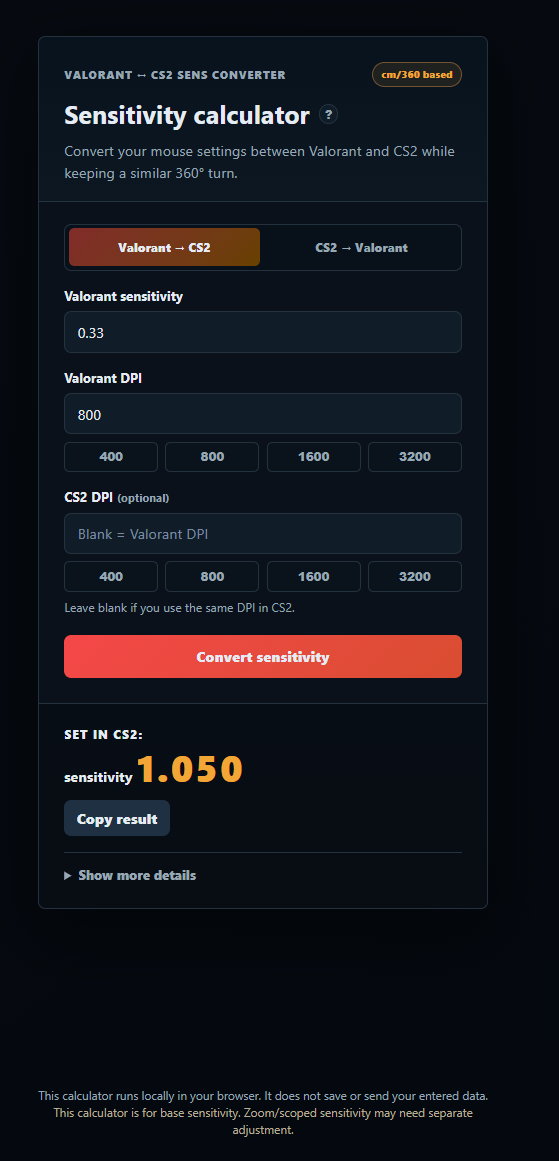
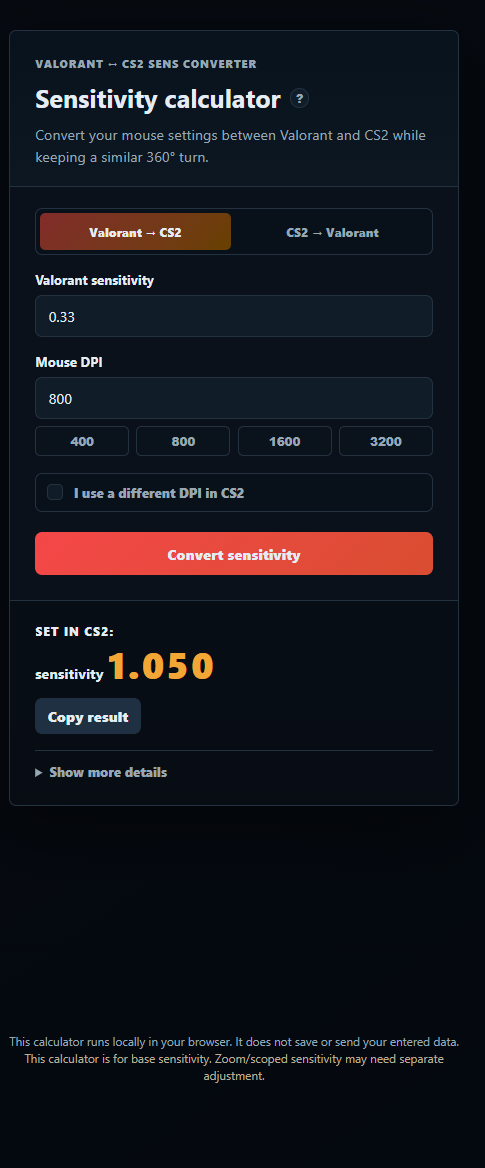
Fix hidden target DPI field

diff --git a/style.css b/style.css
@@ -33,6 +33,10 @@
   box-sizing: border-box;
 }
 
+[hidden] {
+  display: none !important;
+}
+
 body {
   min-height: 100dvh;
   margin: 0;
@@ -80,17 +84,6 @@ body {
   font-weight: 800;
   letter-spacing: 0.08em;
   text-transform: uppercase;
-}
-
-.badge {
-  border: 1px solid #735330;
-  border-radius: 999px;
-  padding: 5px 9px;
-  color: var(--cs2);
-  background: rgb(255 173 59 / 0.09);
-  font-size: 0.72rem;
-  font-weight: 800;
-  white-space: nowrap;
 }
 
 .title-row {
@@ -219,18 +212,12 @@ label {
   font-weight: 750;
 }
 
-.optional-label {
-  color: var(--muted);
-  font-size: 0.78rem;
-  font-weight: 700;
-}
-
 .hint {
   color: var(--muted);
   font-size: 0.84rem;
 }
 
-input:not([type="radio"]) {
+input[type="text"] {
   width: 100%;
   min-height: 46px;
   border: 1px solid var(--line);
@@ -243,17 +230,96 @@ input:not([type="radio"]) {
   transition: border-color 180ms ease, background-color 180ms ease, transform 180ms ease;
 }
 
-input:not([type="radio"])::placeholder {
+input[type="text"]::placeholder {
   color: rgb(159 176 198 / 0.74);
 }
 
-input:not([type="radio"]):hover {
+input[type="text"]:hover {
   border-color: #6b5f49;
 }
 
-input:not([type="radio"]):focus {
+input[type="text"]:focus {
   border-color: var(--cs2);
   background: #172638;
+}
+
+.different-dpi-toggle {
+  display: flex;
+  align-items: center;
+  gap: 12px;
+  width: 100%;
+  min-height: 44px;
+  border: 1px solid var(--line);
+  border-radius: var(--radius);
+  padding: 10px 12px;
+  color: var(--muted);
+  background: #081019;
+  font-size: 0.9rem;
+  font-weight: 800;
+  cursor: pointer;
+  user-select: none;
+  transition: border-color 180ms ease, background-color 180ms ease, color 180ms ease, transform 180ms ease;
+}
+
+.different-dpi-toggle input {
+  position: absolute;
+  width: 1px;
+  height: 1px;
+  opacity: 0;
+  pointer-events: none;
+}
+
+.toggle-box {
+  width: 18px;
+  height: 18px;
+  display: grid;
+  place-items: center;
+  flex: 0 0 auto;
+  border: 1px solid var(--line);
+  border-radius: 5px;
+  background: var(--panel-soft);
+  transition: border-color 180ms ease, background-color 180ms ease;
+}
+
+.toggle-box::after {
+  content: "";
+  width: 9px;
+  height: 5px;
+  border-left: 2px solid #081019;
+  border-bottom: 2px solid #081019;
+  opacity: 0;
+  transform: rotate(-45deg) translateY(-1px);
+  transition: opacity 140ms ease;
+}
+
+.different-dpi-toggle:hover {
+  color: var(--text);
+  border-color: #6b5f49;
+  background: #0b1520;
+}
+
+.different-dpi-toggle:active {
+  transform: translateY(1px) scale(0.995);
+}
+
+.different-dpi-toggle input:checked + .toggle-box {
+  border-color: var(--cs2);
+  background: var(--cs2);
+}
+
+.different-dpi-toggle input:checked + .toggle-box::after {
+  opacity: 1;
+}
+
+.different-dpi-toggle:has(input:checked) {
+  color: var(--text);
+  border-color: #735330;
+  background: rgb(255 173 59 / 0.08);
+}
+
+.different-dpi-toggle input:focus-visible + .toggle-box {
+  outline: 2px solid var(--cs2);
+  outline-offset: 2px;
 }
 
 .dpi-presets {

diff --git a/script.js b/script.js
@@ -26,6 +26,8 @@ const results = document.querySelector("#results");
 const sourceSensInput = document.querySelector("#source-sens");
 const sourceDpiInput = document.querySelector("#source-dpi");
 const targetDpiInput = document.querySelector("#target-dpi");
+const targetDpiField = document.querySelector("#target-dpi-field");
+const differentTargetDpiInput = document.querySelector("#different-target-dpi");
 const directionInputs = document.querySelectorAll('input[name="direction"]');
 const presetButtons = document.querySelectorAll(".preset-button");
 
@@ -33,6 +35,7 @@ const sourceSensLabel = document.querySelector("#source-sens-label");
 const sourceDpiLabel = document.querySelector("#source-dpi-label");
 const targetDpiLabel = document.querySelector("#target-dpi-label");
 const targetDpiHint = document.querySelector("#target-dpi-hint");
+const differentDpiLabel = document.querySelector("#different-dpi-label");
 
 const targetResultLabel = document.querySelector("#target-result-label");
 const targetSensOutput = document.querySelector("#target-sens-result");
@@ -91,16 +94,22 @@ function updateLabels() {
   const direction = getSelectedDirection();
 
   sourceSensLabel.textContent = `${direction.sourceName} sensitivity`;
-  sourceDpiLabel.textContent = `${direction.sourceName} DPI`;
-  targetDpiLabel.innerHTML = `${direction.targetName} DPI <span class="optional-label">(optional)</span>`;
-  targetDpiHint.textContent = `Leave blank if you use the same DPI in ${direction.targetName}.`;
+  sourceDpiLabel.textContent = "Mouse DPI";
+  targetDpiLabel.textContent = `${direction.targetName} DPI`;
+  targetDpiHint.textContent = `Only fill this in if your mouse DPI is different in ${direction.targetName}.`;
+  differentDpiLabel.textContent = `I use a different DPI in ${direction.targetName}`;
   targetResultLabel.textContent = `Set in ${direction.targetName}:`;
   sourceEdpiLabel.textContent = `eDPI ${direction.sourceName}`;
   targetEdpiLabel.textContent = `eDPI ${direction.targetName}`;
   sourceCmLabel.textContent = direction.sourceName;
   targetCmLabel.textContent = direction.targetName;
   sourceSensInput.placeholder = direction.sensPlaceholder;
-  targetDpiInput.placeholder = `Blank = ${direction.sourceName} DPI`;
+  targetDpiInput.placeholder = "e.g. 800";
+  updateTargetDpiVisibility();
+}
+
+function updateTargetDpiVisibility() {
+  targetDpiField.hidden = !differentTargetDpiInput.checked;
 }
 
 function calculateCmPer360(sensitivity, dpi, yaw) {
@@ -112,8 +121,7 @@ function calculateSensitivity(showValidationErrors = true) {
   const direction = getSelectedDirection();
   const sourceSens = parsePositiveNumber(sourceSensInput.value);
   const sourceDpi = parsePositiveNumber(sourceDpiInput.value);
-  const rawTargetDpi = targetDpiInput.value.trim();
-  const targetDpi = rawTargetDpi ? parsePositiveNumber(rawTargetDpi) : sourceDpi;
+  const targetDpi = differentTargetDpiInput.checked ? parsePositiveNumber(targetDpiInput.value) : sourceDpi;
 
   clearError();
   clearCopyStatus();
@@ -183,6 +191,11 @@ directionInputs.forEach((input) => {
     updateLabels();
     recalculateIfPossible();
   });
+});
+
+differentTargetDpiInput.addEventListener("change", () => {
+  updateTargetDpiVisibility();
+  recalculateIfPossible();
 });
 
 presetButtons.forEach((button) => {

diff --git a/index.html b/index.html
@@ -17,7 +17,6 @@
     <section class="header">
       <div class="eyebrow-row">
         <div class="eyebrow">VALORANT ↔ CS2 SENS CONVERTER</div>
-        <div class="badge">cm/360 based</div>
       </div>
 
       <div class="title-row">
@@ -48,7 +47,7 @@
       </div>
 
       <div class="field">
-        <label id="source-dpi-label" for="source-dpi">Valorant DPI</label>
+        <label id="source-dpi-label" for="source-dpi">Mouse DPI</label>
         <input id="source-dpi" name="sourceDpi" type="text" inputmode="numeric" autocomplete="off" placeholder="e.g. 800">
         <div class="dpi-presets" aria-label="Popular source DPI presets">
           <button class="preset-button" type="button" data-target="source" data-dpi="400">400</button>
@@ -58,8 +57,14 @@
         </div>
       </div>
 
-      <div class="field">
-        <label id="target-dpi-label" for="target-dpi">CS2 DPI <span class="optional-label">(optional)</span></label>
+      <label class="different-dpi-toggle" for="different-target-dpi">
+        <input id="different-target-dpi" name="differentTargetDpi" type="checkbox">
+        <span class="toggle-box" aria-hidden="true"></span>
+        <span id="different-dpi-label">I use a different DPI in CS2</span>
+      </label>
+
+      <div class="field target-dpi-field" id="target-dpi-field" hidden>
+        <label id="target-dpi-label" for="target-dpi">CS2 DPI</label>
         <input id="target-dpi" name="targetDpi" type="text" inputmode="numeric" autocomplete="off" placeholder="Blank = Valorant DPI">
         <div class="dpi-presets" aria-label="Popular target DPI presets">
           <button class="preset-button" type="button" data-target="target" data-dpi="400">400</button>